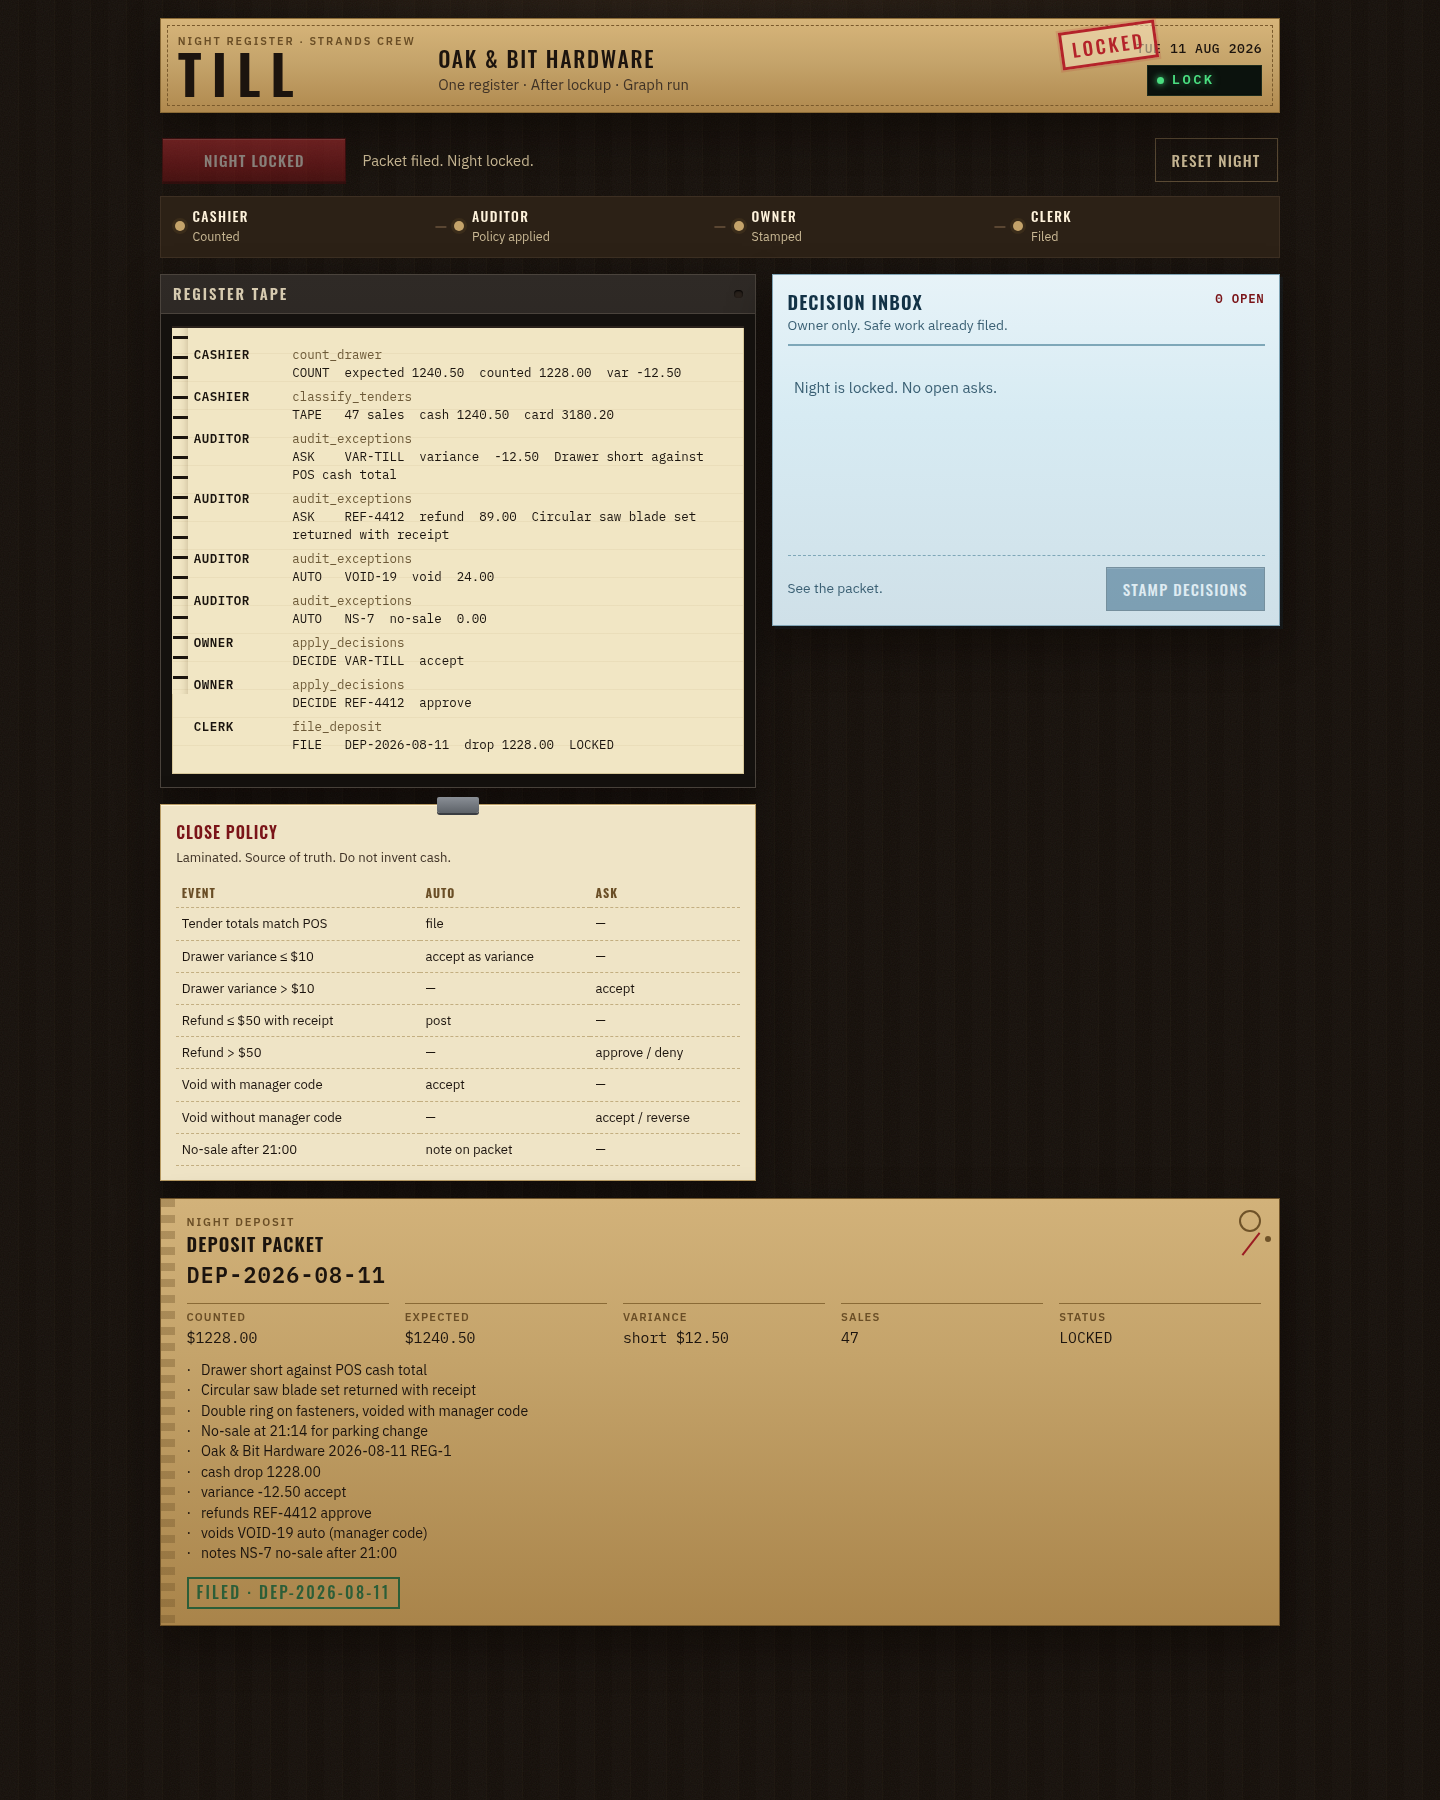
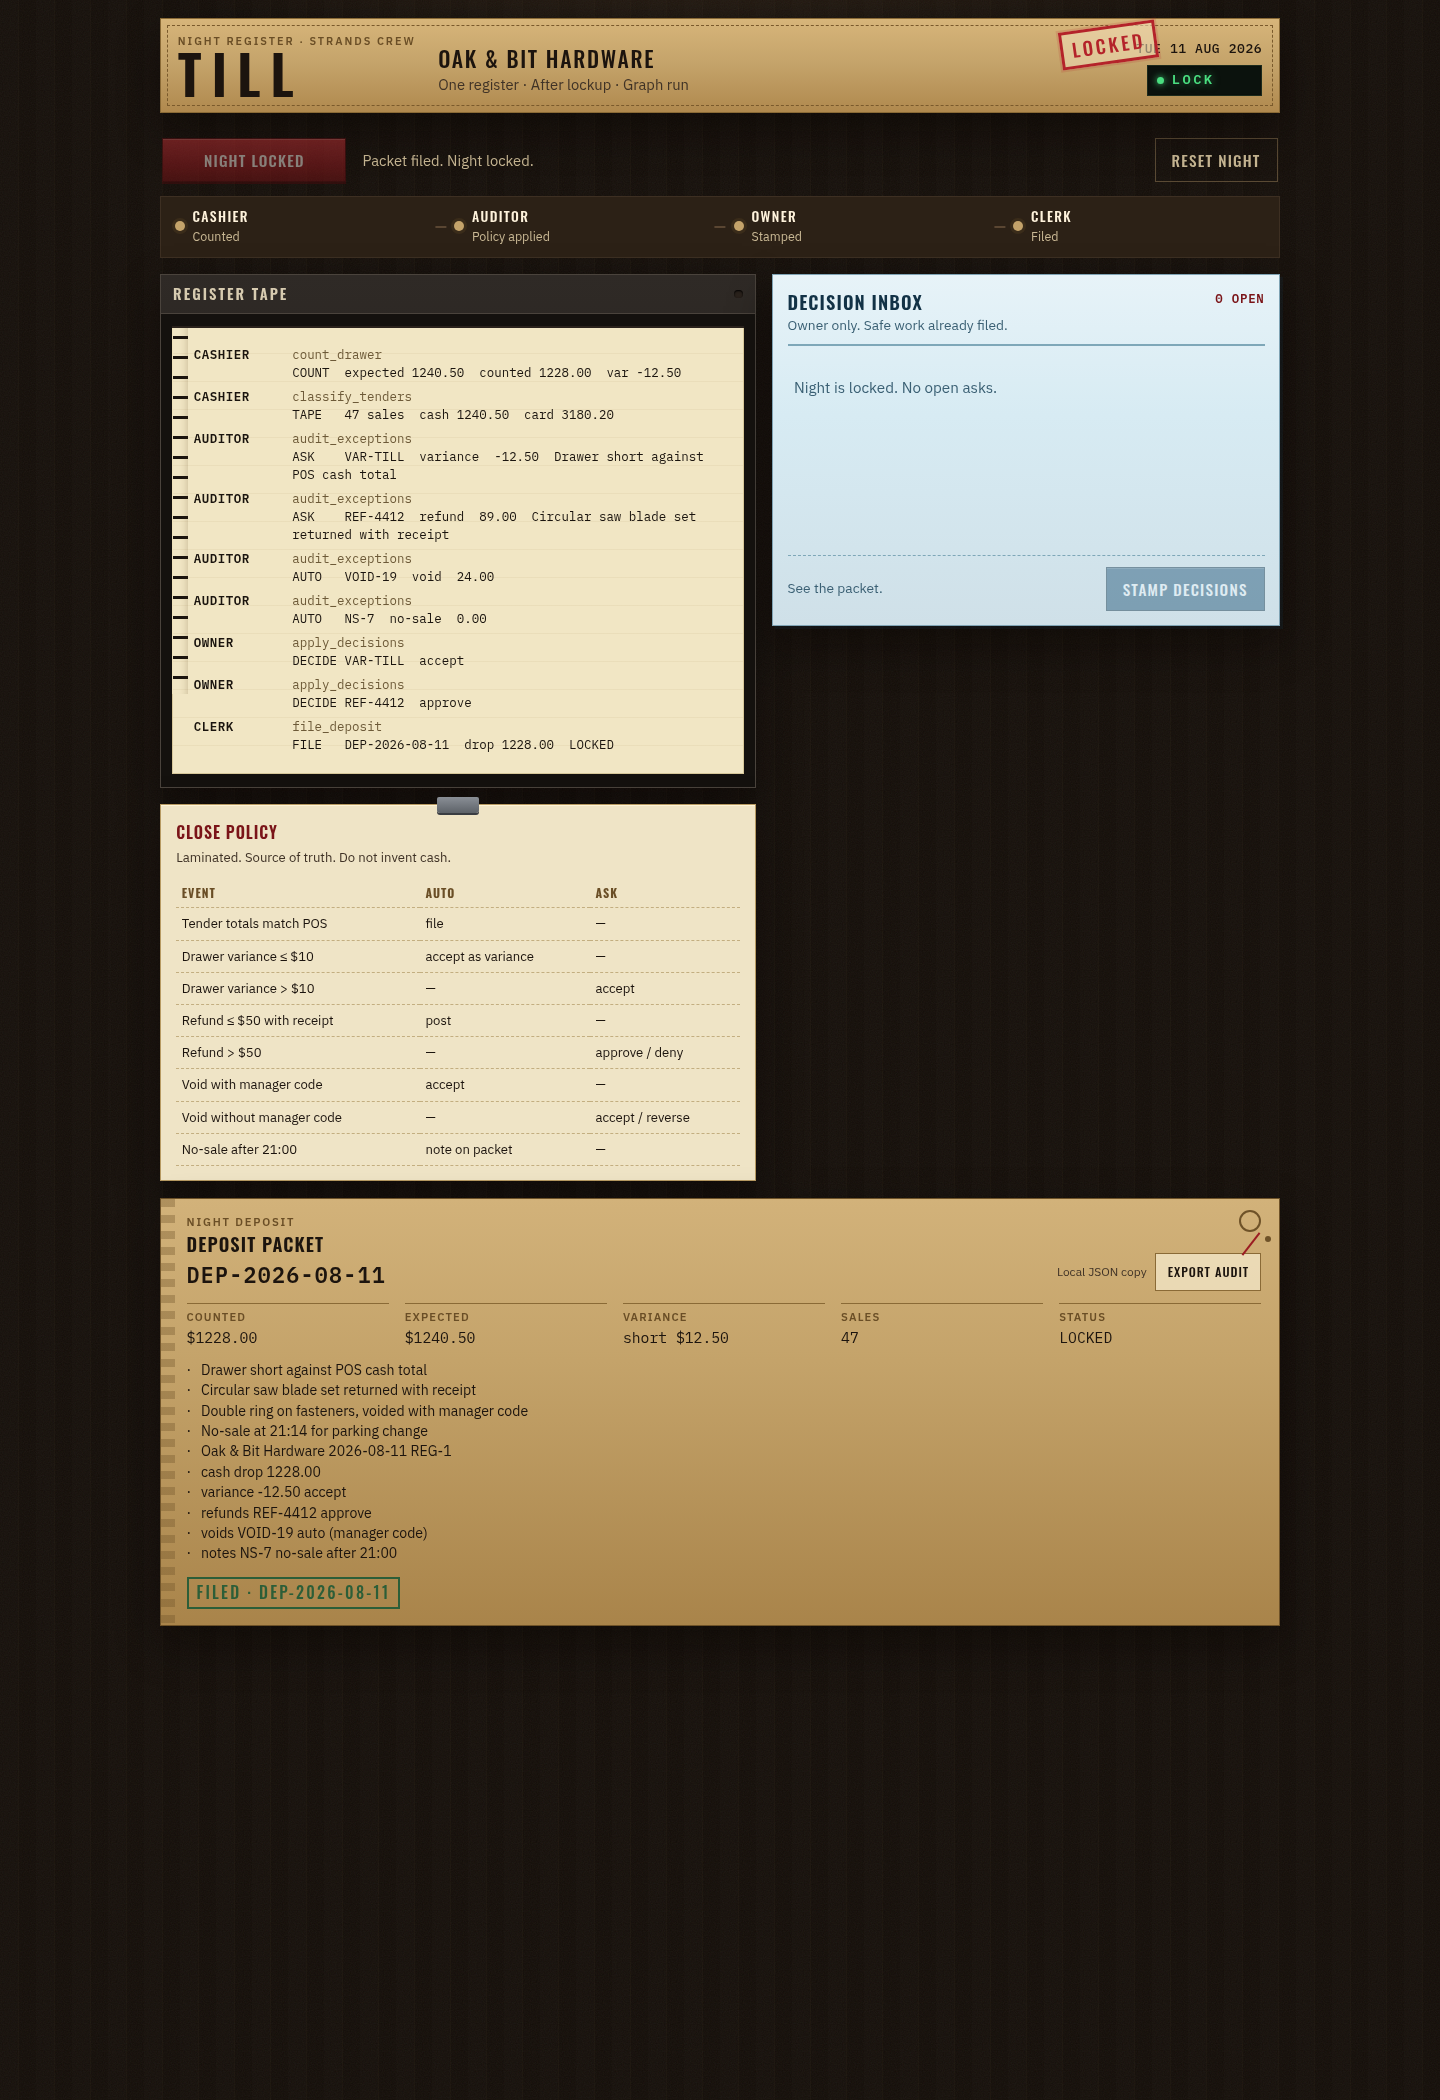
Export locked close as local audit

diff --git a/web/app.js b/web/app.js
@@ -1,7 +1,8 @@
 /**
  * Till night board.
  *
- * Night state accepted from GET /api/night (also POST /api/close and /api/decide):
+ * Night state accepted from GET /api/night (also POST /api/close and /api/decide).
+ * GET /api/export returns the locked local audit envelope:
  * {
  *   shop, date, weekday, status,
  *   sales,
@@ -13,6 +14,7 @@
  *   audit: [{ agent, tool, decision, detail }],
  *   policy: [{ event, auto, ask }]
  * }
+ * { format: "till-close-v1", boundary: "local-process", night: { ... } }
  */
 (() => {
   "use strict";
@@ -33,6 +35,7 @@
     close: $("#btn-close"),
     reset: $("#btn-reset"),
     decide: $("#btn-decide"),
+    export: $("#btn-export"),
     note: $("#toolbar-note"),
     crew: $("#crew"),
     lamp: $("#print-lamp"),
@@ -47,6 +50,7 @@
     packetGrid: $("#packet-grid"),
     packetNotes: $("#packet-notes"),
     packetBand: $("#packet-band"),
+    packetExportNote: $("#packet-export-note"),
     policyBody: $("#policy-body"),
   };
 
@@ -398,6 +402,7 @@
     ui.close.disabled = busy || closeBlocked();
     ui.reset.disabled = busy;
     ui.decide.disabled = busy || !canStamp();
+    ui.export.disabled = busy || state.night.status !== "locked";
     if (busy) {
       ui.close.setAttribute("aria-busy", "true");
       if (label) ui.note.textContent = label;
@@ -696,6 +701,8 @@
   function renderPacket(night) {
     const locked = night.status === "locked";
     const open = night.cards.filter(cardOpen).length;
+    ui.export.disabled = state.busy || !locked;
+    ui.packetExportNote.textContent = locked ? "Local JSON copy" : "Available after lock";
     const pid =
       night.packet.id ||
       (locked ? "DEP-2026-08-11" : "");
@@ -908,9 +915,38 @@
     }
   }
 
+  async function exportAudit() {
+    if (state.busy || state.night.status !== "locked") return;
+    clearError();
+    ui.export.disabled = true;
+    ui.export.setAttribute("aria-busy", "true");
+    ui.packetExportNote.textContent = "Preparing local copy…";
+    try {
+      const data = await api("/api/export");
+      const blob = new Blob([JSON.stringify(data, null, 2)], { type: "application/json" });
+      const href = URL.createObjectURL(blob);
+      const link = document.createElement("a");
+      const packetId = data?.night?.packet?.id || "close";
+      link.href = href;
+      link.download = `till-${packetId}.json`;
+      document.body.append(link);
+      link.click();
+      link.remove();
+      window.setTimeout(() => URL.revokeObjectURL(href), 0);
+      ui.packetExportNote.textContent = "Saved locally. No cloud upload.";
+    } catch (err) {
+      showError(err.message, exportAudit);
+      ui.packetExportNote.textContent = "Export failed. Retry when ready.";
+    } finally {
+      ui.export.removeAttribute("aria-busy");
+      ui.export.disabled = state.night.status !== "locked";
+    }
+  }
+
   ui.close.addEventListener("click", runClose);
   ui.reset.addEventListener("click", resetNight);
   ui.decide.addEventListener("click", stampDecisions);
+  ui.export.addEventListener("click", exportAudit);
   ui.retry.addEventListener("click", () => {
     clearError();
     state.retry();

diff --git a/web/styles.css b/web/styles.css
@@ -885,6 +885,41 @@ button:disabled {
   padding: 0.95rem 1.1rem 1rem 1.6rem;
 }
 
+.packet-top {
+  display: flex;
+  justify-content: space-between;
+  gap: 1rem;
+  align-items: flex-end;
+}
+
+.packet-tools {
+  display: flex;
+  flex-wrap: wrap;
+  align-items: center;
+  justify-content: flex-end;
+  gap: 0.55rem;
+}
+
+.packet-export-note {
+  margin: 0;
+  color: var(--ink-soft);
+  font-size: 0.75rem;
+}
+
+.btn-export {
+  min-height: 38px;
+  padding: 0.4rem 0.7rem;
+  background: rgba(255, 248, 225, 0.6);
+  color: var(--ink);
+  border-color: #8a6a36;
+  font-size: 0.78rem;
+}
+
+.btn-export:hover:not(:disabled) {
+  background: #fff8e1;
+  border-color: var(--stamp-deep);
+}
+
 .packet-kicker {
   font-size: 0.7rem;
   font-weight: 600;
@@ -1026,8 +1061,18 @@ button:disabled {
 
   .btn-close,
   .btn-ghost,
-  .btn-stamp {
+  .btn-stamp,
+  .btn-export {
     width: 100%;
+  }
+
+  .packet-top {
+    align-items: stretch;
+    flex-direction: column;
+  }
+
+  .packet-tools {
+    justify-content: flex-start;
   }
 
   .policy thead {

diff --git a/web/index.html b/web/index.html
@@ -203,9 +203,17 @@
         <div class="packet-string" aria-hidden="true"></div>
         <div class="packet-inner">
           <div class="packet-top">
-            <p class="packet-kicker">Night deposit</p>
-            <h2 id="packet-heading">Deposit packet</h2>
-            <p class="packet-id" id="packet-id">Not made</p>
+            <div>
+              <p class="packet-kicker">Night deposit</p>
+              <h2 id="packet-heading">Deposit packet</h2>
+              <p class="packet-id" id="packet-id">Not made</p>
+            </div>
+            <div class="packet-tools">
+              <p class="packet-export-note" id="packet-export-note">Available after lock</p>
+              <button type="button" id="btn-export" class="btn btn-export" disabled>
+                Export audit
+              </button>
+            </div>
           </div>
           <dl class="packet-grid" id="packet-grid"></dl>
           <ul class="packet-notes" id="packet-notes"></ul>

diff --git a/tests/test_http.py b/tests/test_http.py
@@ -38,6 +38,7 @@ def test_http_board_is_not_chat():
     assert "Decision Inbox" in body
     assert "Register tape" in body
     assert "Deposit packet" in body
+    assert "Export audit" in body
     assert "<textarea" not in body.lower()
     health = client.get("/health")
     assert health.status_code == 200
@@ -51,6 +52,44 @@ def test_http_initial_board_has_no_open_asks():
     assert snapshot["status"] == "open"
     assert snapshot["open_asks"] == []
     assert snapshot["cards"] == []
+
+
+def test_http_export_requires_a_locked_packet_and_returns_a_local_audit():
+    client = TestClient(app, raise_server_exceptions=False)
+    client.post("/api/reset")
+
+    before_close = client.get("/api/export")
+    assert before_close.status_code == 409
+    assert (
+        "locked" in before_close.json()["detail"]
+        or "progress" in before_close.json()["detail"]
+    )
+
+    client.post("/api/close")
+    while_waiting = client.get("/api/export")
+    assert while_waiting.status_code == 409
+    assert "locked" in while_waiting.json()["detail"]
+
+    _, decided = _close_then_decide(client)
+    assert decided["status"] == "locked"
+
+    exported = client.get("/api/export")
+    assert exported.status_code == 200
+    assert exported.headers["content-type"].startswith("application/json")
+    assert (
+        exported.headers["content-disposition"]
+        == 'attachment; filename="till-DEP-2026-08-11.json"'
+    )
+    body = exported.json()
+    assert body["format"] == "till-close-v1"
+    assert body["boundary"] == "local-process"
+    assert body["night"]["status"] == "locked"
+    assert body["night"]["packet"]["id"] == "DEP-2026-08-11"
+
+    client.post("/api/reset")
+    after_reset = client.get("/api/export")
+    assert after_reset.status_code == 409
+    assert "no close in progress" in after_reset.json()["detail"]
 
 
 def test_http_rejects_invalid_decisions_without_server_error():

diff --git a/till/main.py b/till/main.py
@@ -1,10 +1,11 @@
 from pathlib import Path
 
 from fastapi import FastAPI, HTTPException
+from fastapi.responses import JSONResponse
 from fastapi.staticfiles import StaticFiles
 from pydantic import BaseModel, Field
 
-from till.engine import reset_night, resume_close, snapshot, start_close
+from till.engine import export_close, reset_night, resume_close, snapshot, start_close
 
 WEB = Path(__file__).resolve().parents[1] / "web"
 
@@ -28,6 +29,21 @@ def health() -> dict[str, str]:
 @app.get("/api/night")
 def api_night() -> dict:
     return snapshot()
+
+
+@app.get("/api/export")
+def api_export() -> JSONResponse:
+    try:
+        artifact = export_close()
+    except RuntimeError as exc:
+        raise HTTPException(status_code=409, detail=str(exc)) from exc
+    packet_id = artifact["night"]["packet"]["id"]
+    return JSONResponse(
+        content=artifact,
+        headers={
+            "Content-Disposition": f'attachment; filename="till-{packet_id}.json"'
+        },
+    )
 
 
 @app.post("/api/close")

diff --git a/till/engine.py b/till/engine.py
@@ -55,6 +55,22 @@ def resume_close(decisions: list[dict[str, str]]) -> dict[str, Any]:
     return _payload(_last_result)
 
 
+def export_close() -> dict[str, Any]:
+    if _last_result is None:
+        raise RuntimeError("no close in progress")
+    if (
+        _last_result.status != Status.COMPLETED
+        or night().status != "locked"
+        or night().packet is None
+    ):
+        raise RuntimeError("export is available after the deposit packet is locked")
+    return {
+        "format": "till-close-v1",
+        "boundary": "local-process",
+        "night": _payload(_last_result),
+    }
+
+
 def reset_night() -> dict[str, Any]:
     global _graph, _last_result
     _graph = None

diff --git a/README.md b/README.md
@@ -26,6 +26,7 @@ Open http://127.0.0.1:8000
 2. Tape prints cashier + auditor lines. Two cards: `$12.50` short, `$89` refund.
 3. Accept the variance. Approve the refund.
 4. Packet `DEP-2026-08-11` files. Night stamps **LOCKED**.
+5. Click **Export audit** to save the locked close as a local JSON record. It never uploads.
 
 No AWS or model key is required for the judge path. The graph is real Strands
 (`GraphBuilder`, `MultiAgentBase`, `BeforeNodeCallEvent`, interrupt/resume).
@@ -74,8 +75,9 @@ same graph resumes and files `DEP-2026-08-11`.
 The seeded Tuesday is synthetic and runs in one process. Till does not connect to a real POS,
 move real money, or claim a hosted deployment. The code proves the complete policy and human-
 decision flow locally; live POS integration, multi-user persistence, model narration, and
-AgentCore deployment are separate follow-up paths. The scenario does not claim measured customer
-time savings or user-study results.
+AgentCore deployment are separate follow-up paths. The audit export is a local download from the
+same process, not durable cloud storage. The scenario does not claim measured customer time
+savings or user-study results.
 
 ## Restart later
 

diff --git a/docs/API.md b/docs/API.md
@@ -8,6 +8,7 @@ App: `till.main:app`
 | GET | `/health` | `{"ok":"till"}` |
 | GET | `/` | Night board (`web/index.html`) |
 | GET | `/api/night` | Current `ShopNight.to_dict()` |
+| GET | `/api/export` | Download the locked close as a local JSON audit artifact |
 | POST | `/api/close` | **Resets** the seeded Tuesday, runs the graph until interrupt or lock |
 | POST | `/api/decide` | Resume the open interrupt. Body below. |
 | POST | `/api/reset` | Clear graph + restore fixture. Night is `open`. |
@@ -24,6 +25,19 @@ App: `till.main:app`
 ```
 
 409 if no close is in progress or the night is not waiting.
+
+`GET /api/export` returns `409` until the packet is locked. After a successful close it returns
+`application/json` with `Content-Disposition: attachment` and this envelope:
+
+```json
+{
+  "format": "till-close-v1",
+  "boundary": "local-process",
+  "night": {"status": "locked", "packet": {"id": "DEP-2026-08-11"}}
+}
+```
+
+The file is a local audit copy. Till does not persist or upload it.
 
 The request must include exactly one supported decision for every open ask card. The current
 seeded flow supports `VAR-TILL: accept` and `REF-4412: approve | deny`. Unknown cards, duplicate

diff --git a/docs/STATUS.md b/docs/STATUS.md
@@ -8,6 +8,8 @@ Local demo is built and tested. Submission kit for Devpost is not.
 - Spec, policy table, four role skills
 - Strands `GraphBuilder` + `BeforeNodeCallEvent` interrupt/resume
 - FastAPI: `/health`, `/api/night`, `/api/close`, `/api/decide`, `/api/reset`, static board at `/`
+- Locked close can be exported through `/api/export` or the board's **Export audit** control as a
+  local JSON artifact; export is rejected before the packet is locked
 - Board: Run night close, Decision Inbox, register tape, deposit packet. Not a chat home.
 - Judge assets: rendered architecture diagram, waiting-state screenshot, locked-state screenshot,
   and originality/attribution note

diff --git a/docs/DEMO.md b/docs/DEMO.md
@@ -39,6 +39,9 @@ Packet **DEP-2026-08-11**. Cash drop **1228.00**. Night **LOCKED**. Clerk only r
 
 One slide: cashier → auditor → owner-gate interrupt → clerk. Strands graph. Policy in one file. Skills are the jobs.
 
+After showing the locked packet, click **Export audit** once. The browser saves a local JSON
+copy of the packet and close trace; say explicitly that it is a local download, not cloud storage.
+
 ## 4:50–5:00 — Close
 
 “Dana opened Till twice. The crew closed the store.”

diff --git a/SPEC.md b/SPEC.md
@@ -45,6 +45,7 @@ Seeded Tuesday. 47 sales. One $89 refund. Drawer short $12.50. One late no-sale.
 - Crew timeline
 - Decision Inbox
 - Deposit packet (the artifact)
+- Local audit export (only after the packet locks)
 - Policy table
 
 ## Stack
